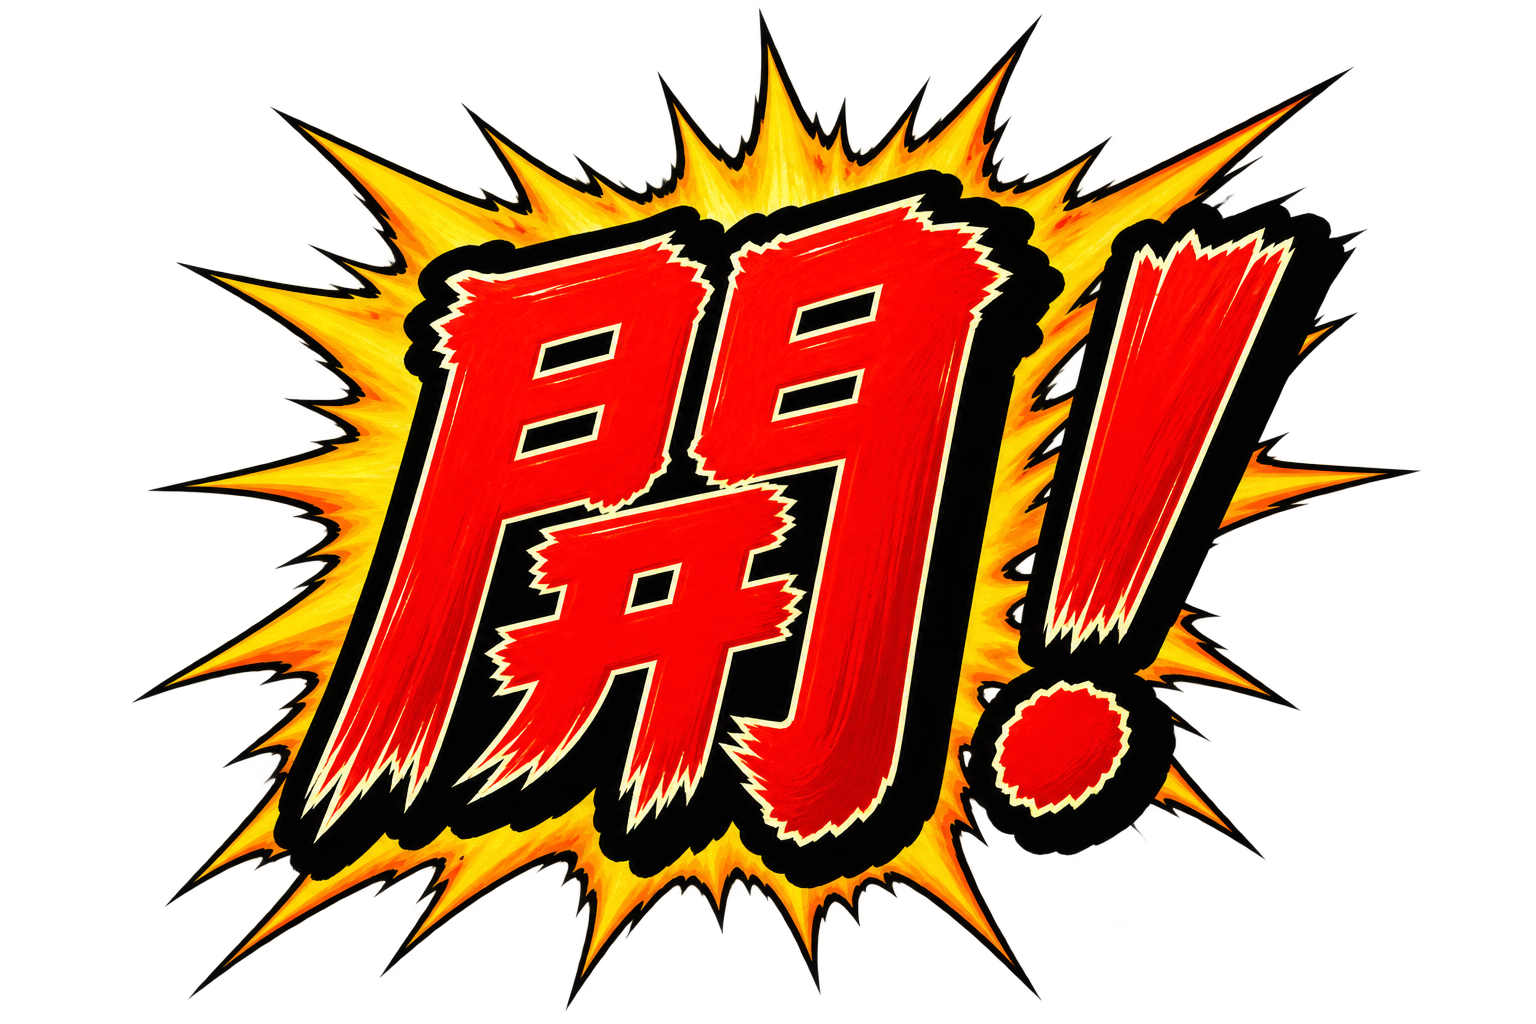
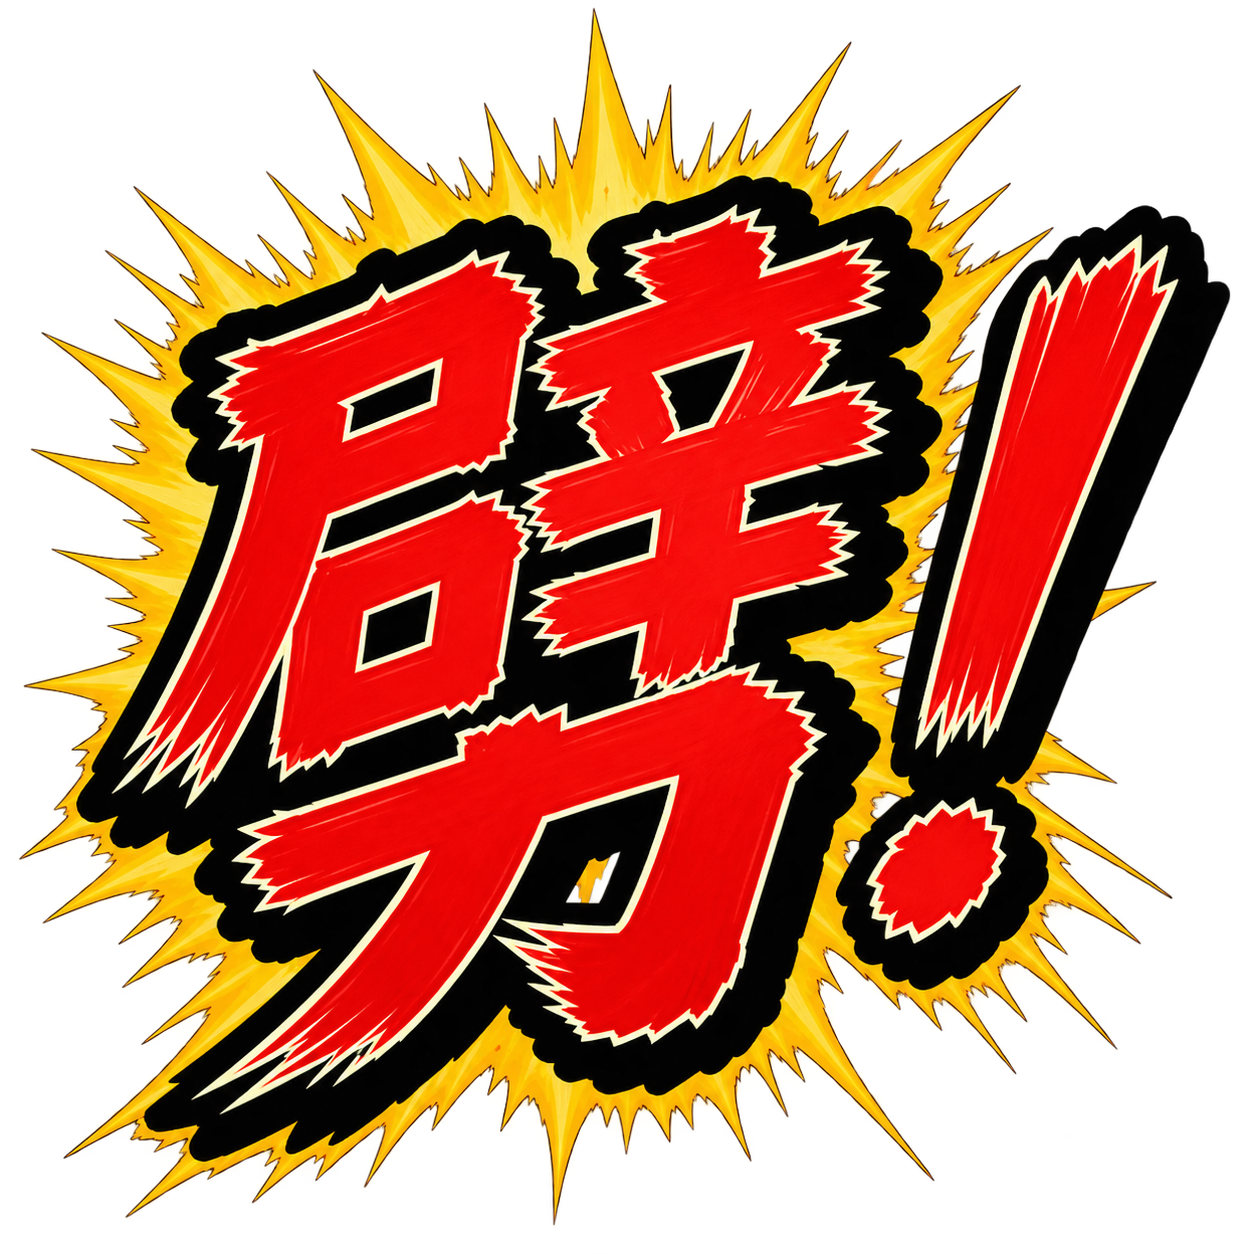
2321

diff --git a/src/screens/Gameplay.jsx b/src/screens/Gameplay.jsx
@@ -13,6 +13,7 @@ import FeiAnimationOverlay, { FEI_ACTION_SUBMIT_MS, FEI_ANIMATION_DURATION_MS } 
 import {
   OFFICIAL_FEI_QUANTITY_STEP,
   getOfficialDefaultBid,
+  getOfficialOpeningZaiBid,
   getOfficialSpecialActionMode,
   officialBidFaceRank,
   validateOfficialFeiSelection,
@@ -1270,16 +1271,34 @@ function isValidBid(currentBid, quantity, face, options = {}) {
   return normalizedQuantity > currentQuantity || (normalizedQuantity === currentQuantity && officialBidFaceRank(normalizedFace) > officialBidFaceRank(currentFace));
 }
 
-function getDirectZaiBid({ match, currentBid, selectedQuantity, selectedFace }) {
+function getDirectZaiBid({ match, currentBid, selectedQuantity, selectedFace, playerCount = 2, totalDice = 1 }) {
   const currentMode = getMatchJokerDisplay(match, currentBid)?.mode;
+  const specialMode = getOfficialSpecialActionMode({ currentBid, currentMode });
+
+  // At the start of a round the ordinary selector intentionally defaults to
+  // Face 1. Explicit ZAI may never use Face 1, so normalize only the dedicated
+  // ZAI action to the nearest legal opening claim instead of disabling it.
+  if (!currentBid && specialMode === 'zai') {
+    const controls = getBidControls(match);
+    const serverOpening = controls?.zaiOpeningBid || controls?.zaiBid || {};
+    const requestedFace = toNumber(selectedFace, 1);
+    const fallbackFace = Math.max(2, Math.min(6, toNumber(serverOpening.face, 2)));
+    const legalFace = requestedFace >= 2 && requestedFace <= 6 ? requestedFace : fallbackFace;
+    const openingMinimum = getOpeningMinimumQuantity(match, playerCount, legalFace);
+
+    return getOfficialOpeningZaiBid({
+      selectedQuantity,
+      selectedFace: legalFace,
+      openingMinimum,
+      totalDice,
+      fallbackFace,
+    });
+  }
+
   return {
-    // Never rewrite the player's visible selection. Validation decides whether
-    // the exact value can be submitted as ZAI or FEI.
     quantity: toNumber(selectedQuantity, toNumber(currentBid?.quantity, 1)),
     face: Math.max(1, Math.min(6, toNumber(selectedFace, toNumber(currentBid?.face, 1)))),
-    source: getOfficialSpecialActionMode({ currentBid, currentMode }) === 'fei'
-      ? 'selected_fei'
-      : 'selected_zai',
+    source: specialMode === 'fei' ? 'selected_fei' : 'selected_zai',
   };
 }
 
@@ -1423,6 +1442,8 @@ export default function Gameplay({ navigation, data, backendActions, backendStat
   const [feiAnimationRun, setFeiAnimationRun] = useState(0);
   const feiTimersRef = useRef([]);
   const feiActionSentRef = useRef(false);
+  const specialActionAnimation = data?.specialActionAnimation || null;
+  const lastSpecialActionAnimationRef = useRef('');
   const turnIntroKey = isOpeningCoinFlipActive ? '' : getTurnIntroKey(match, activePlayer);
   const turnIntroResetKey = getTurnIntroResetKey(match);
   const isTurnIntroPlaying = TURN_INTRO_ACTIVE_PHASES.has(turnIntroPhase);
@@ -1471,7 +1492,19 @@ export default function Gameplay({ navigation, data, backendActions, backendStat
   const [roundResultVisible, setRoundResultVisible] = useState(false);
   const showRoundResult = Boolean(match && roundResult && roundResultVisible && !isFinished);
   const [clockTick, setClockTick] = useState(() => Date.now());
-  const liveTurnSeconds = isOpeningCoinFlipActive ? 0 : getLiveTurnSeconds(match, clockTick);
+  const roundIntermission = match?.roundIntermission || null;
+  const roundIntermissionActive = Boolean(match?.roundIntermissionActive || (match?.roundPhase === 'round_intermission' && roundIntermission));
+  const roundRevealEndsAtMs = roundIntermission?.revealEndsAt ? new Date(roundIntermission.revealEndsAt).getTime() : Number.NaN;
+  const nextRoundStartsAtMs = roundIntermission?.nextRoundStartsAt ? new Date(roundIntermission.nextRoundStartsAt).getTime() : Number.NaN;
+  const roundRevealBufferRemainingMs = roundIntermissionActive && Number.isFinite(roundRevealEndsAtMs)
+    ? Math.max(0, roundRevealEndsAtMs - clockTick)
+    : 0;
+  const nextRoundRemainingMs = roundIntermissionActive && Number.isFinite(nextRoundStartsAtMs)
+    ? Math.max(0, nextRoundStartsAtMs - clockTick)
+    : 0;
+  const showNewRoundCountdown = roundIntermissionActive && roundRevealBufferRemainingMs <= 0 && nextRoundRemainingMs > 0;
+  const newRoundCountdownSeconds = showNewRoundCountdown ? Math.max(1, Math.min(5, Math.ceil(nextRoundRemainingMs / 1000))) : 0;
+  const liveTurnSeconds = isOpeningCoinFlipActive || roundIntermissionActive ? 0 : getLiveTurnSeconds(match, clockTick);
   const chatMessages = Array.isArray(data?.chatMessages) ? data.chatMessages : [];
   const chatStatus = data?.chatStatus || {};
   const [chatOpen, setChatOpen] = useState(false);
@@ -1776,10 +1809,14 @@ export default function Gameplay({ navigation, data, backendActions, backendStat
   const submitZaiBid = () => {
     if (isTurnIntroPlaying) return;
 
-    const specialBid = getDirectZaiBid({ match, currentBid, selectedQuantity, selectedFace });
+    const specialBid = getDirectZaiBid({ match, currentBid, selectedQuantity, selectedFace, playerCount: tablePlayerCount, totalDice });
 
     if (specialActionMode === 'zai') {
       if (!canSubmitZai || !zaiSelectionValidation.valid) return;
+      if (!currentBid && (specialBid.quantity !== selectedQuantity || specialBid.face !== selectedFace)) {
+        setSelectedQuantity(specialBid.quantity);
+        setSelectedFace(specialBid.face);
+      }
       const actionPayload = {
         matchId: currentMatchId,
         type: 'zai',
@@ -1791,12 +1828,16 @@ export default function Gameplay({ navigation, data, backendActions, backendStat
           betAmount: selectedCoinBet,
           zai: true,
           isZai: true,
+          zaiDeclared: true,
+          explicitZaiAction: true,
           jokerMode: 'zai',
         },
         quantity: specialBid.quantity,
         face: specialBid.face,
         zai: true,
         isZai: true,
+        zaiDeclared: true,
+        explicitZaiAction: true,
         jokerMode: 'zai',
         coinBet: selectedCoinBet,
         betAmount: selectedCoinBet,
@@ -1882,6 +1923,7 @@ export default function Gameplay({ navigation, data, backendActions, backendStat
     callLiarActionSentRef.current = false;
     zaiActionSentRef.current = false;
     feiActionSentRef.current = false;
+    lastSpecialActionAnimationRef.current = '';
     // Reset an in-flight cinematic if the match itself changes.
     // eslint-disable-next-line react-hooks/exhaustive-deps
   }, [currentMatchId]);
@@ -1980,6 +2022,85 @@ export default function Gameplay({ navigation, data, backendActions, backendStat
     slamTimersRef.current = [actionTimer, finishTimer];
   };
 
+  useEffect(() => {
+    const event = specialActionAnimation;
+    if (!event || typeof window === 'undefined') return;
+
+    const eventMatchId = event.matchId || null;
+    if (eventMatchId && currentMatchId && String(eventMatchId) !== String(currentMatchId)) return;
+
+    const eventId = String(
+      event.eventId
+      || [eventMatchId || currentMatchId || 'match', event.type || event.actionType || 'action', event.createdAt || ''].join(':'),
+    );
+    if (!eventId || lastSpecialActionAnimationRef.current === eventId) return;
+    lastSpecialActionAnimationRef.current = eventId;
+
+    const animationType = String(event.type || event.actionType || '').trim().toLowerCase();
+
+    // Remote cinematic playback never submits a game action. The originating
+    // client already owns its local animation/action timing; this path exists
+    // only for the other players (and for every human when a bot acts).
+    clearSlamTimers();
+    clearCallLiarTimers();
+    clearZaiTimers();
+    clearFeiTimers();
+    setSlamAnimating(false);
+    setCallLiarAnimating(false);
+    setZaiAnimating(false);
+    setFeiAnimating(false);
+
+    if (animationType === 'zai') {
+      setZaiAnimationRun((run) => run + 1);
+      setZaiAnimating(true);
+      playGameSfx('zai');
+      const finishTimer = window.setTimeout(() => {
+        setZaiAnimating(false);
+        zaiTimersRef.current = [];
+      }, ZAI_ANIMATION_DURATION_MS);
+      zaiTimersRef.current = [finishTimer];
+      return;
+    }
+
+    if (animationType === 'fei') {
+      setFeiAnimationRun((run) => run + 1);
+      setFeiAnimating(true);
+      playGameSfx('fei');
+      const finishTimer = window.setTimeout(() => {
+        setFeiAnimating(false);
+        feiTimersRef.current = [];
+      }, FEI_ANIMATION_DURATION_MS);
+      feiTimersRef.current = [finishTimer];
+      return;
+    }
+
+    if (animationType === 'call_liar') {
+      setCallLiarAnimationRun((run) => run + 1);
+      setCallLiarAnimating(true);
+      playGameSfx('callLiar');
+      const finishTimer = window.setTimeout(() => {
+        setCallLiarAnimating(false);
+        callLiarTimersRef.current = [];
+      }, CALL_LIAR_ANIMATION_DURATION_MS);
+      callLiarTimersRef.current = [finishTimer];
+      return;
+    }
+
+    if (animationType === 'slam') {
+      setSlamAnimationRun((run) => run + 1);
+      setSlamAnimating(true);
+      playGameSfx('slam');
+      const finishTimer = window.setTimeout(() => {
+        setSlamAnimating(false);
+        slamTimersRef.current = [];
+      }, SLAM_ANIMATION_DURATION_MS);
+      slamTimersRef.current = [finishTimer];
+    }
+    // The event id is the sole trigger. Timer helpers are intentionally owned
+    // by this component instance and remain stable for the lifetime of it.
+    // eslint-disable-next-line react-hooks/exhaustive-deps
+  }, [specialActionAnimation?.eventId, currentMatchId]);
+
   const submitReroll = () => {
     if (!canReroll || isTurnIntroPlaying) return;
     playGameSfx('roll');
@@ -2056,7 +2177,7 @@ export default function Gameplay({ navigation, data, backendActions, backendStat
   const coinBetIsValid = selectedCoinBet >= minRequiredCoinBet && selectedCoinBet <= maxAllowedCoinBet;
   const quantityMin = currentBid ? 1 : getOpeningMinimumQuantity(match, tablePlayerCount, selectedFace);
   const quantityMax = quantityValues[quantityValues.length - 1] || Math.max(1, toNumber(totalDice, 1));
-  const directZaiBid = getDirectZaiBid({ match, currentBid, selectedQuantity, selectedFace });
+  const directZaiBid = getDirectZaiBid({ match, currentBid, selectedQuantity, selectedFace, playerCount: tablePlayerCount, totalDice });
   const specialActionMode = getOfficialSpecialActionMode({ currentBid, currentMode: currentBidJokerMode });
   const isFeiActionMode = specialActionMode === 'fei';
   const feiSelectionValidation = validateOfficialFeiSelection({
@@ -2302,9 +2423,15 @@ export default function Gameplay({ navigation, data, backendActions, backendStat
             type="button"
             className="gameplay-round-result__ok"
             onClick={() => setRoundResultVisible(false)}
+            disabled={roundIntermissionActive && roundRevealBufferRemainingMs > 0}
           >
             {tx('OK')}
           </button>
+          {showNewRoundCountdown ? (
+            <span className="gameplay-round-result__nextRoundCountdown" role="status" aria-live="polite">
+              {tx('ROUND')} {newRoundCountdownSeconds}s
+            </span>
+          ) : null}
         </div>
       ) : null}
 

diff --git a/src/utils/jokerRules.js b/src/utils/jokerRules.js
@@ -190,6 +190,31 @@ export function getOfficialSpecialActionMode({ currentBid = null, currentMode = 
     : 'zai';
 }
 
+export function getOfficialOpeningZaiBid({
+  selectedQuantity = 1,
+  selectedFace = 1,
+  openingMinimum = 1,
+  totalDice = 1,
+  fallbackFace = 2,
+} = {}) {
+  const safeTotalDice = Math.max(1, Math.trunc(asNumber(totalDice, 1)));
+  const requestedFace = Math.trunc(asNumber(selectedFace, fallbackFace));
+  const face = requestedFace >= 2 && requestedFace <= 6
+    ? requestedFace
+    : Math.min(6, Math.max(2, Math.trunc(asNumber(fallbackFace, 2))));
+  const minimumQuantity = Math.max(1, Math.trunc(asNumber(openingMinimum, 1)));
+  const requestedQuantity = Math.max(1, Math.trunc(asNumber(selectedQuantity, minimumQuantity)));
+  const quantity = Math.min(safeTotalDice, Math.max(minimumQuantity, requestedQuantity));
+
+  return {
+    quantity,
+    face,
+    minimumQuantity,
+    adjusted: quantity !== requestedQuantity || face !== requestedFace,
+    source: 'opening_zai',
+  };
+}
+
 export function getOfficialDefaultBid({ currentBid = null, totalDice = 1, currentMode = 'normal' } = {}) {
   const safeTotalDice = Math.max(1, Math.trunc(asNumber(totalDice, 1)));
   if (!currentBid) return { quantity: 1, face: 1, source: 'opening_default' };
